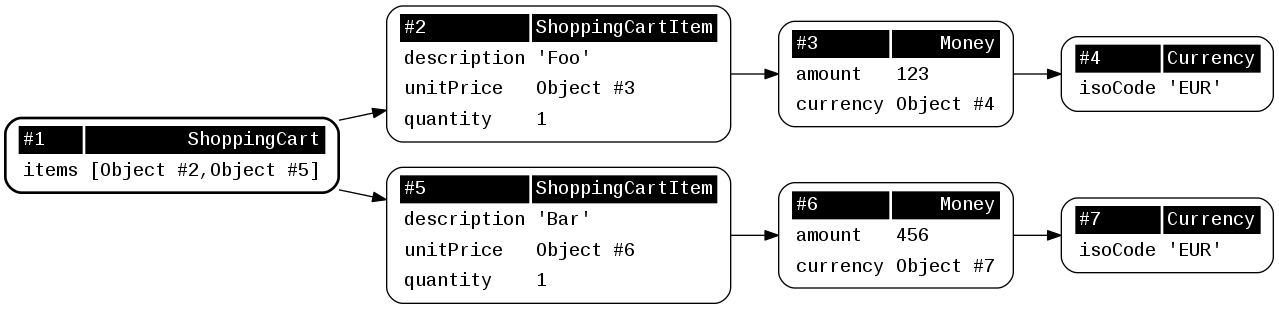
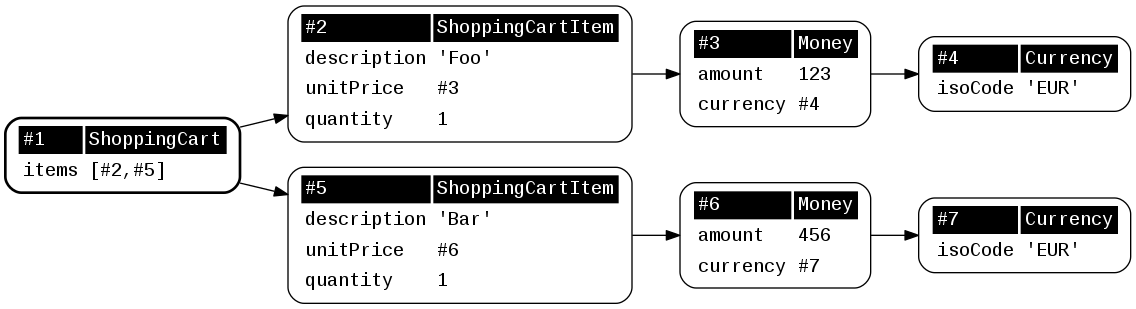
Do not prefix object id with "Object " prefix

diff --git a/src/DotWriter.php b/src/DotWriter.php
@@ -29,7 +29,7 @@ EOT;
 
             foreach ($node->getAttributes() as $name => $value) {
                 if ($value instanceof NodeReference) {
-                    $value = 'Object #' . $value->getId();
+                    $value = '#' . $value->getId();
                 } elseif (is_array($value)) {
                     $value = $this->arrayToString($value);
                 } else {
@@ -84,7 +84,7 @@ EOT;
 
         foreach ($array as $key => $value) {
             if ($value instanceof NodeReference) {
-                $value = 'Object #' . $value->getId();
+                $value = '#' . $value->getId();
             } elseif (is_array($value)) {
                 $value = $this->arrayToString($value);
             } else {
